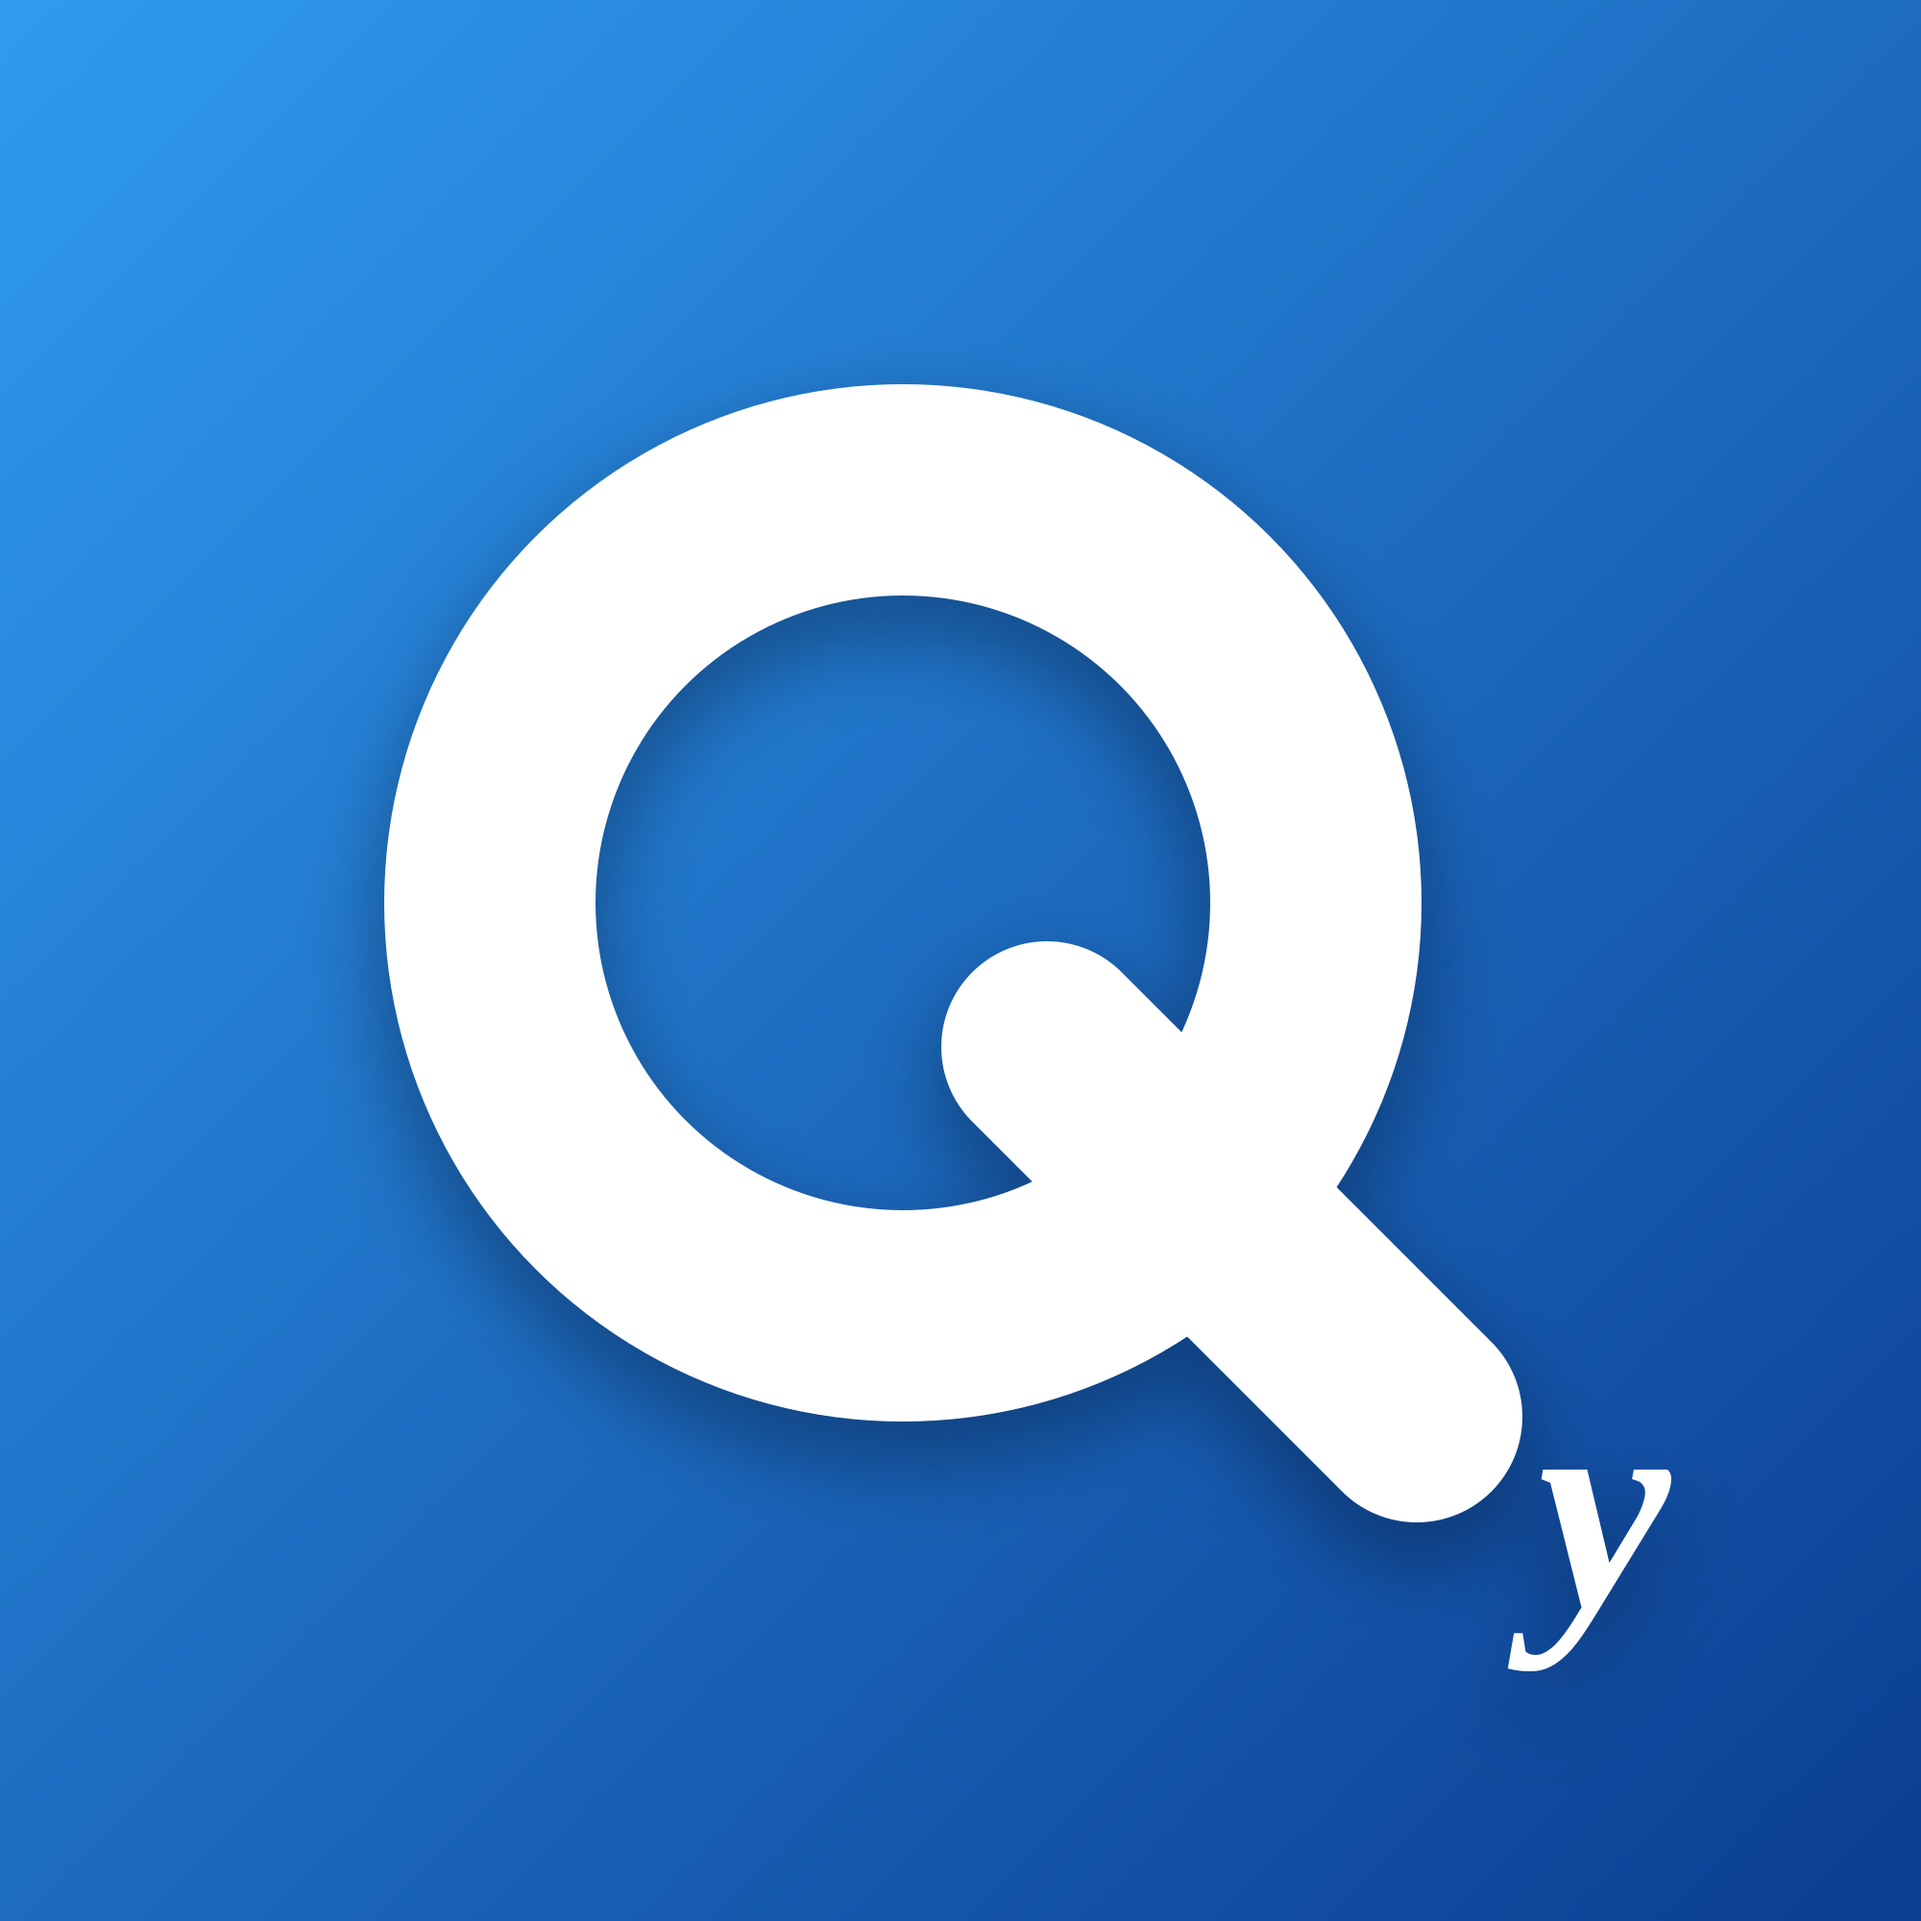
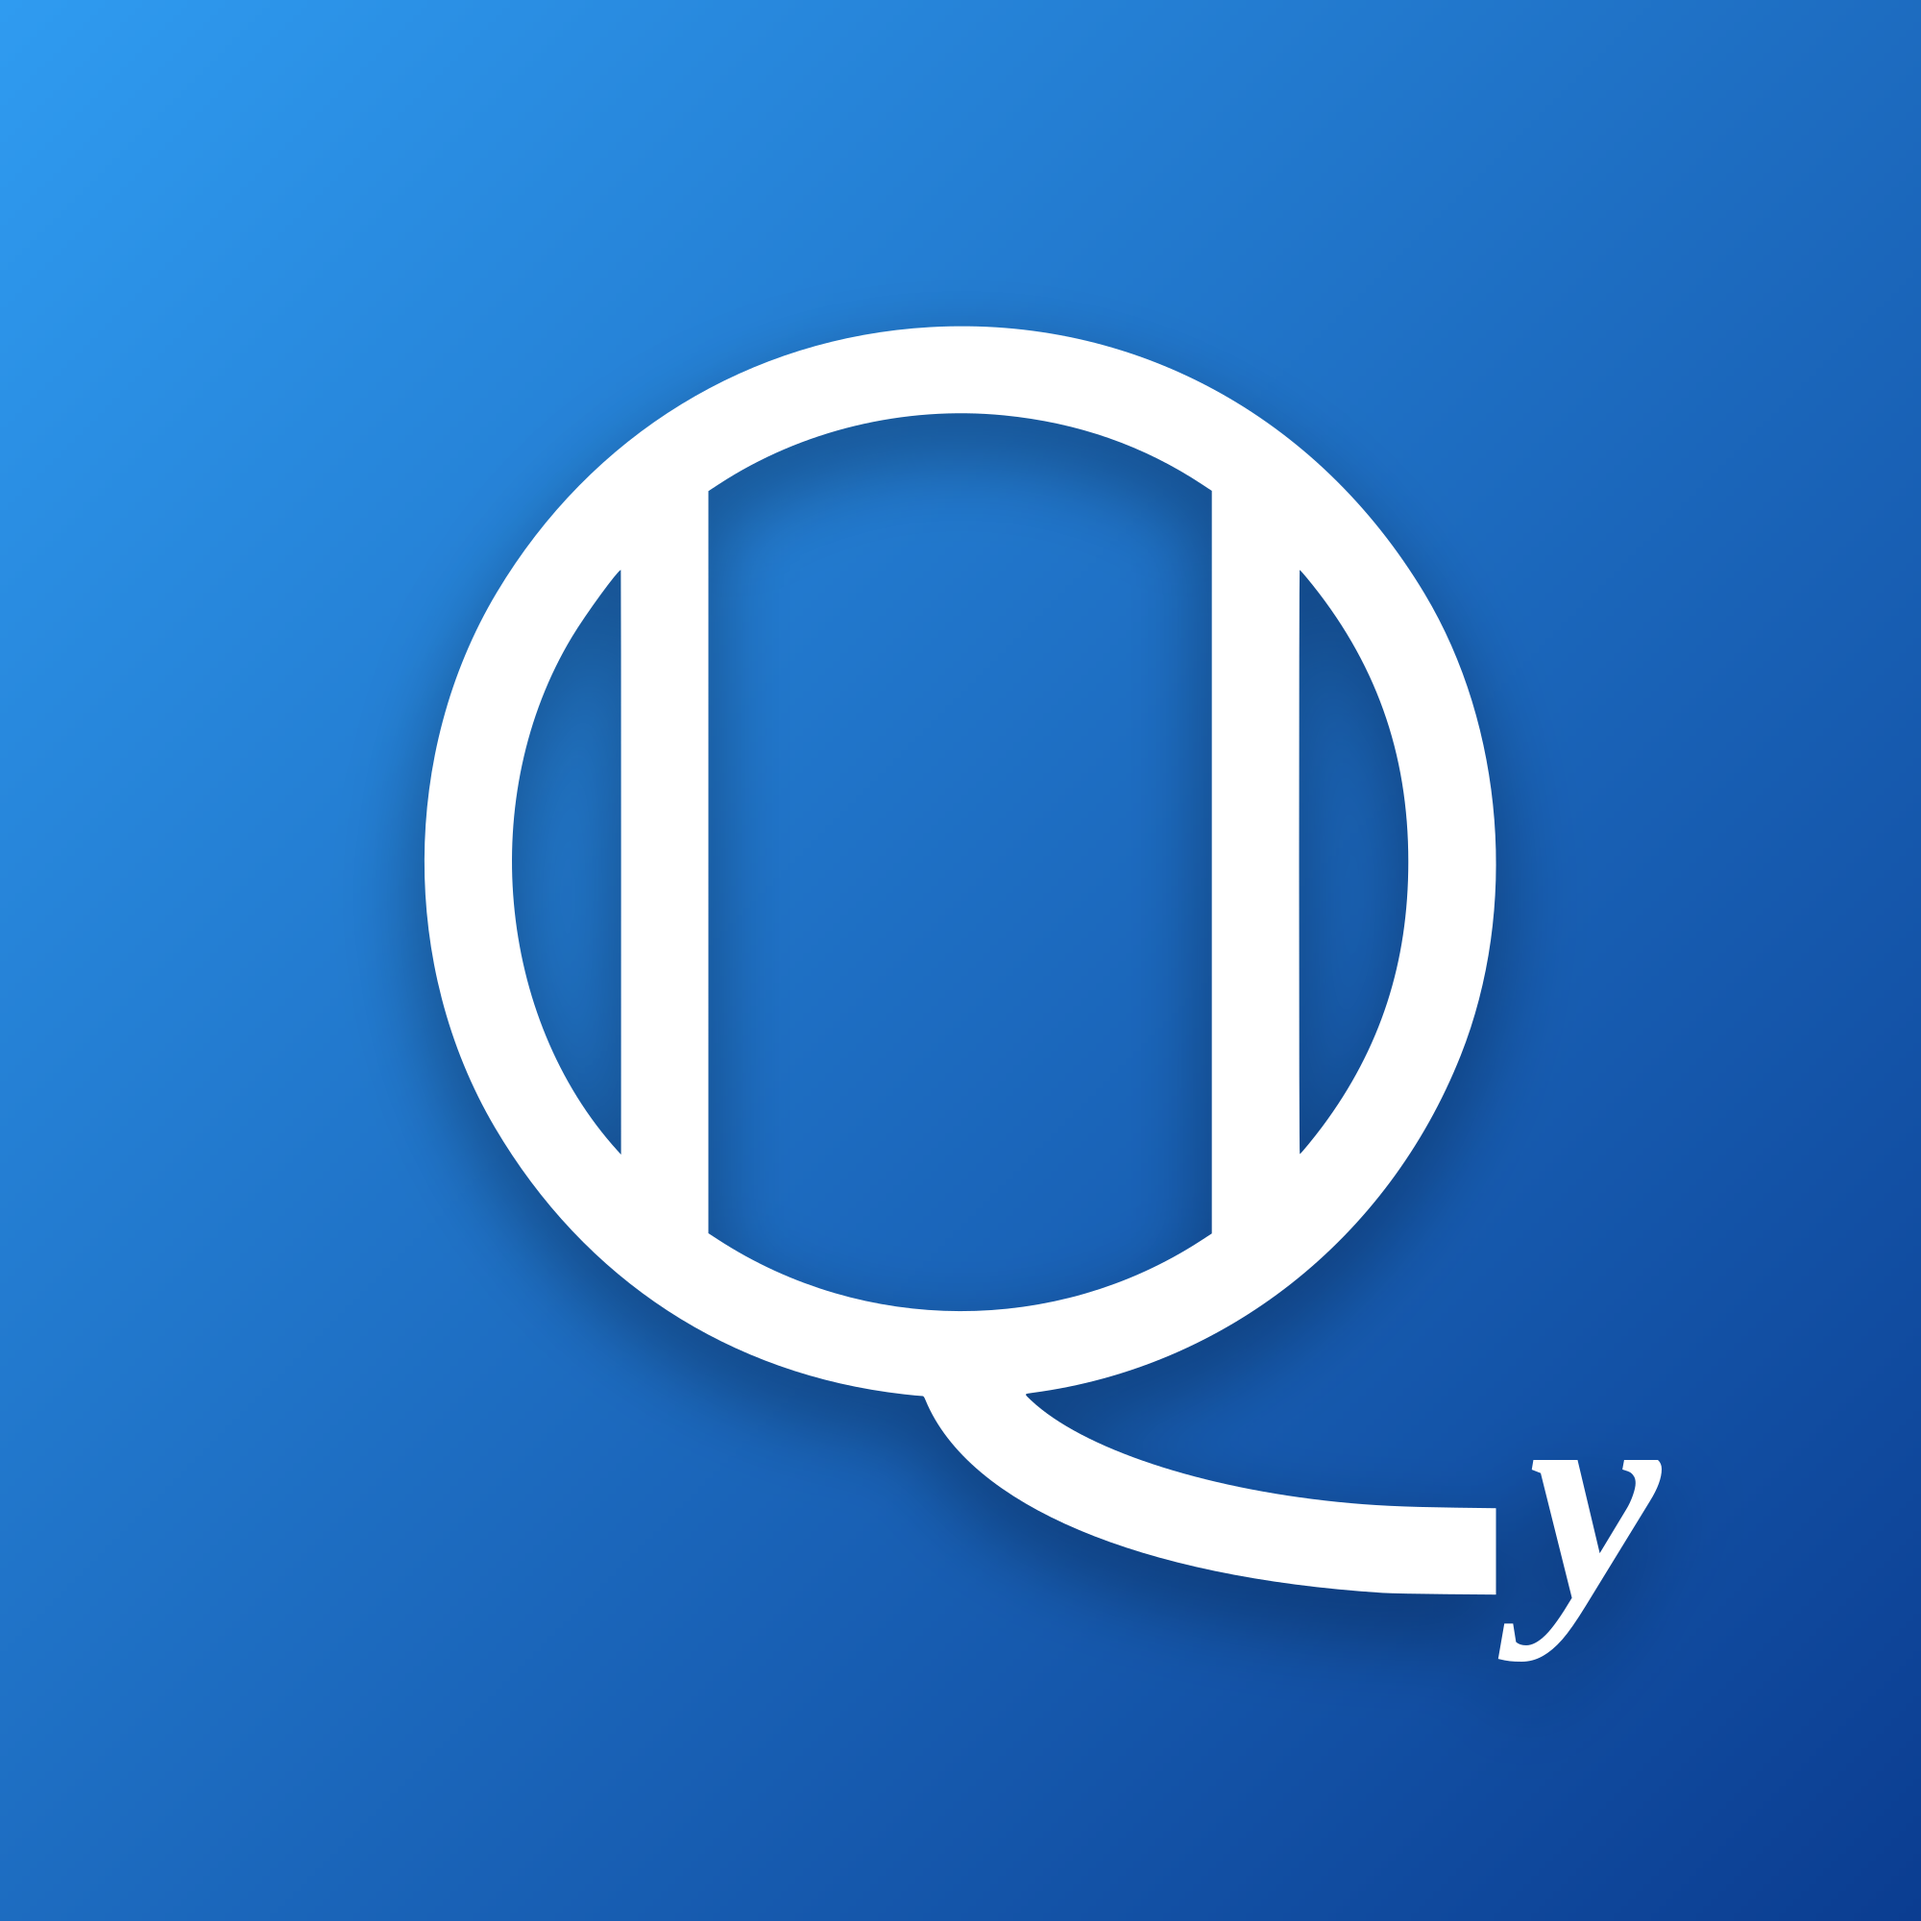
Restore the classic Q mark on the blue gradient
Bring back the original speech-bubble Q glyph, keeping the blue
gradient background, drop shadow, and the serif y signature in the
corner. Regenerated the committed PNG assets.

Claude-Session: https://claude.ai/code/session_01T3rrsY6UjVTEf1PAQ8Tbhh

Changed region(s): [[0.186, 0.155, 0.868, 0.868], [0.279, 0.248, 0.31, 0.279]]

diff --git a/README.md b/README.md
@@ -87,8 +87,8 @@ This fork is based on upstream **v4.12.0**. Everything below is on top of that.
 
 ### Theming & identity
 
-- **New app icon** — a bold geometric Q monogram on a blue gradient with a soft drop shadow,
-  with a small serif *y* signature in the corner.
+- **New app icon** — the classic Q on a blue gradient with a soft drop shadow instead of flat
+  black, and a small serif *y* signature in the corner.
 - **Two theme presets** — *Fairy Forest* and *Pitch Black* (see below).
 
 ### Build & release
